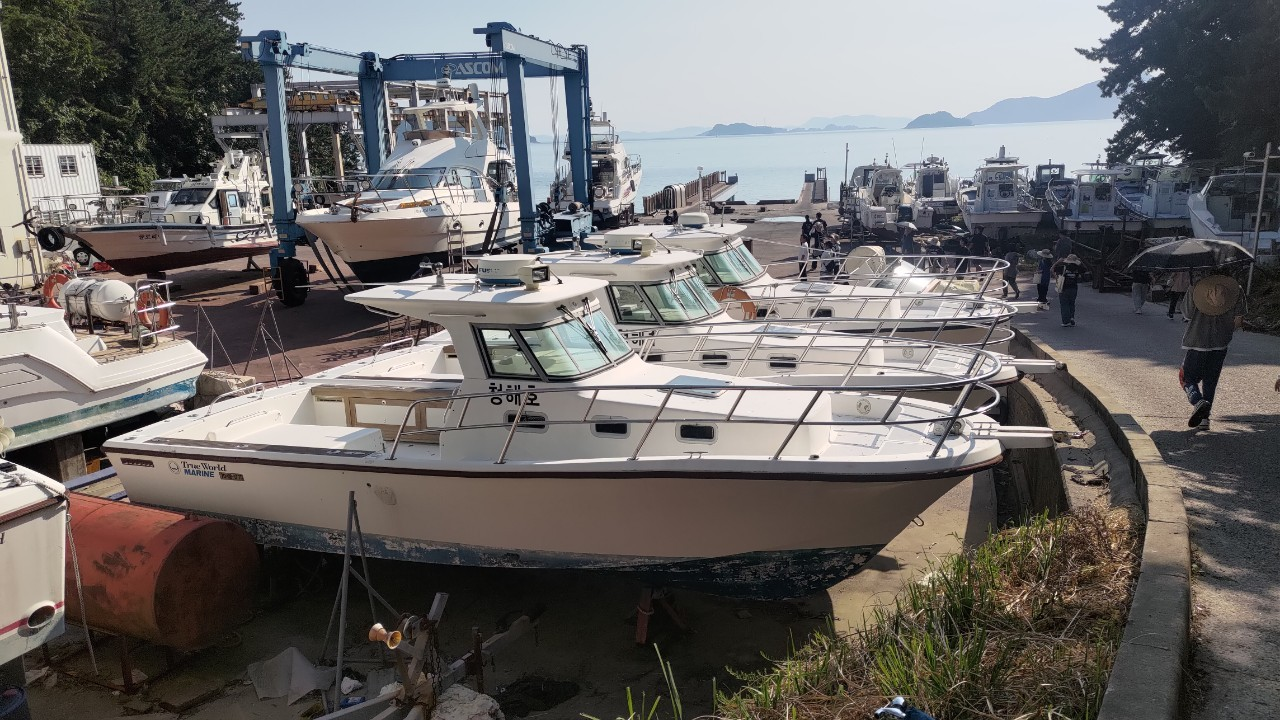
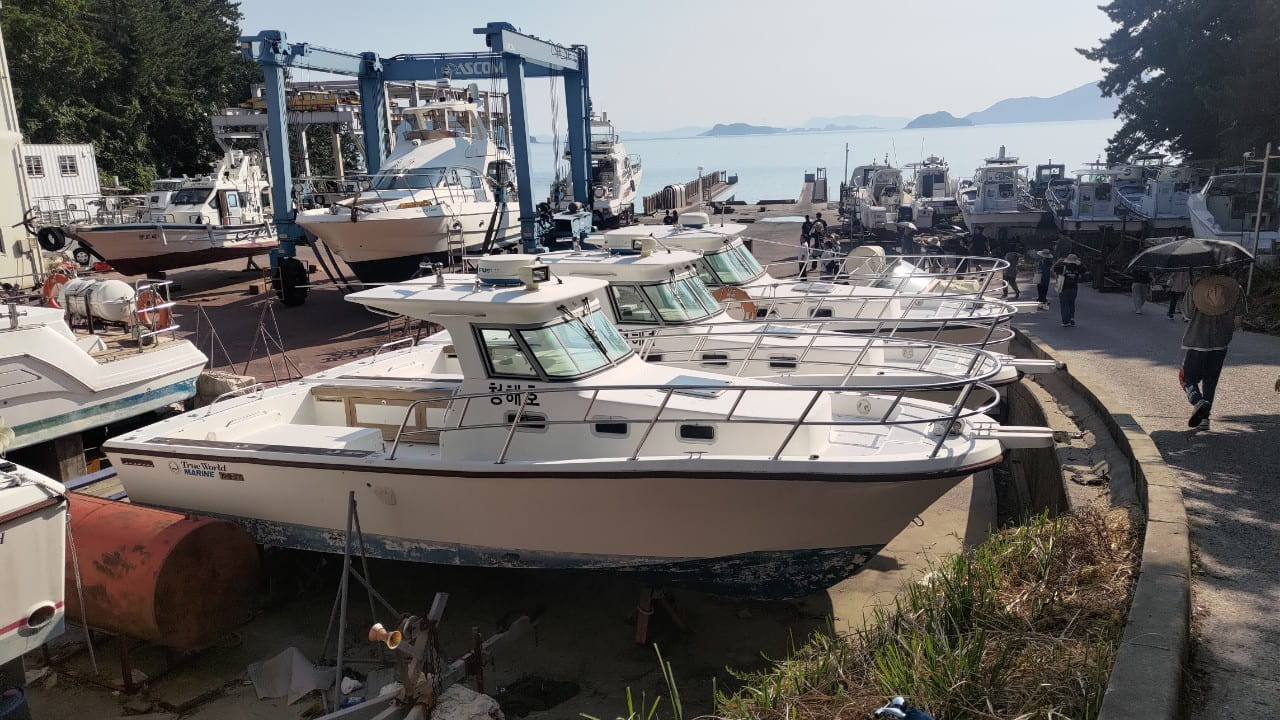
111

diff --git a/style.css b/style.css
@@ -405,8 +405,8 @@ body {
 
 /* ===== 제목 배지 ===== */
 .title-badge {
-  width: 180px;
-  height: 180px;
+  width: 230px;
+  height: 230px;
   display: flex;
   flex-direction: column;
   align-items: center;
